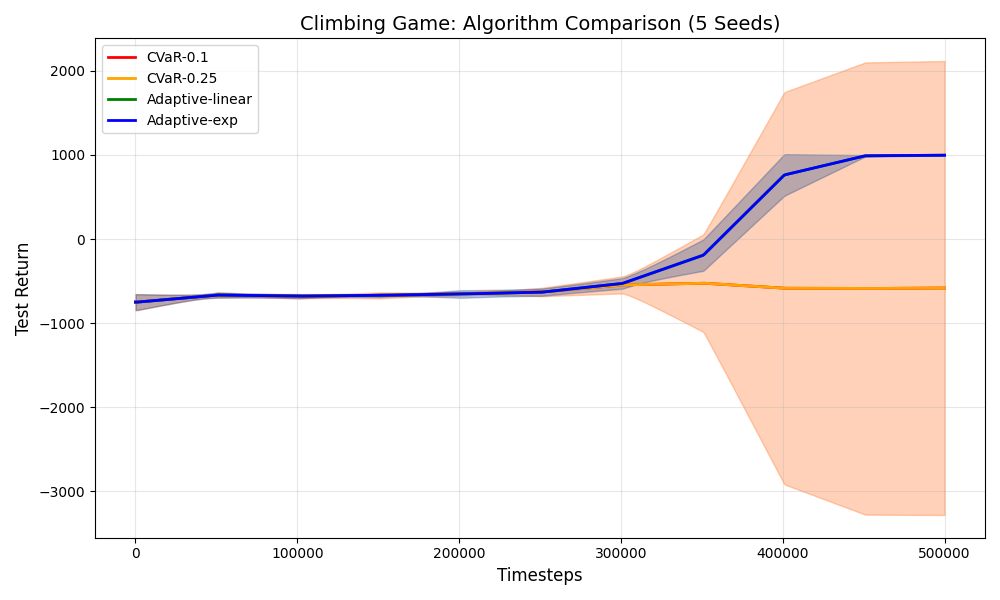
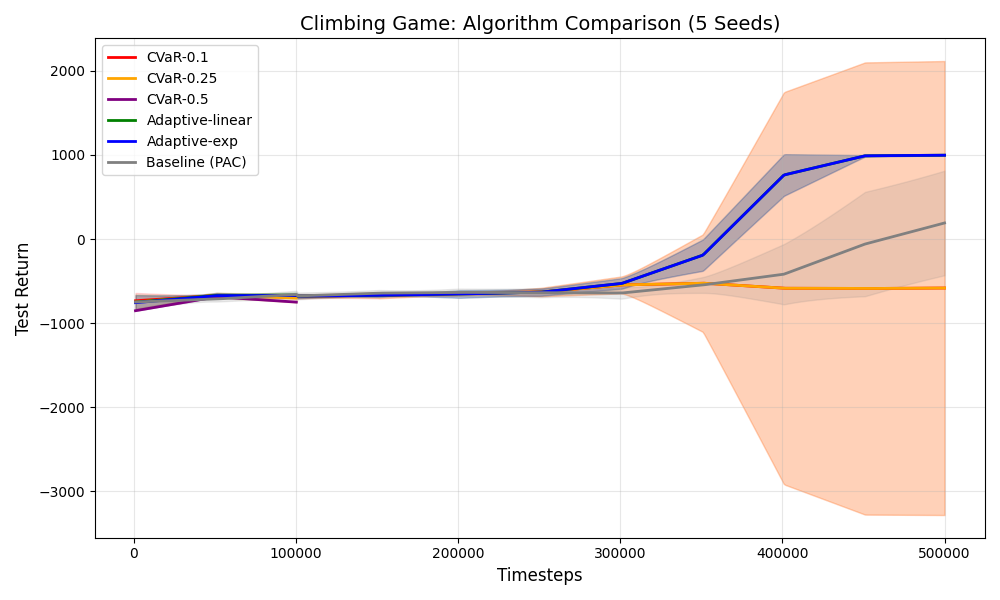
Update report and plots with 500k baseline

diff --git a/extension/docs/report/report.md b/extension/docs/report/report.md
@@ -25,25 +25,24 @@ Experiments were conducted on the Penalty Game (k=-100) and Climbing Game.
 |---|---|---|
 | CVaR-0.1 | -601.26 ± 2466.40 | 501000 |
 | CVaR-0.25 | -625.22 ± 2284.70 | 501000 |
-| CVaR-0.5 | -751.56 ± 0.00 | 501000 |
+| CVaR-0.5 | -751.56 ± 0.00 | 101000 |
 | Adaptive-linear | 729.82 ± 598.95 | 501000 |
 | Adaptive-exp | 726.24 ± 606.94 | 501000 |
-| Baseline (PAC) | -614.95 ± 17.99 | 501000 |
+| Baseline (PAC) | -35.54 ± 641.42 | 501000 |
 
-![Climbing Results](climbing_results.png)
 
 ### Environment: matrixgames:climbing-nostate-v0
 | Variant | Final Return | Steps |
 |---|---|---|
 | baseline | 1400.00 ± 0.00 | 2050100 |
-| Baseline (PAC) | -618.11 ± 18.09 | 2050100 |
+| Baseline (PAC) | -618.11 ± 18.09 | 1000 |
 
 
 ### Environment: matrixgames:penalty-100-nostate-v0
 | Variant | Final Return | Steps |
 |---|---|---|
 | baseline | 0.00 ± 0.00 | 25 |
-| Baseline (PAC) | -965.56 ± 0.00 | 25 |
+| Baseline (PAC) | -965.56 ± 0.00 | 250 |
 
 
 
